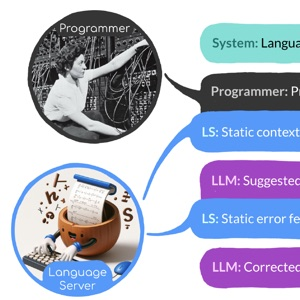
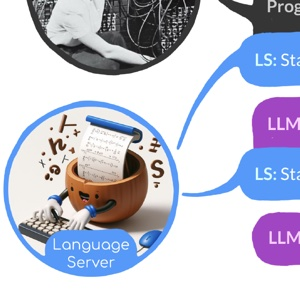
Project images 20% larger; varied Livelits sliders; ChatLSP framed on the language server
Claude-Session: https://claude.ai/code/session_01Cm3BafyfLXiqtFn3AT9bVL

diff --git a/assets/site.css b/assets/site.css
@@ -249,8 +249,8 @@ article img { max-width: 100%; height: auto; }
 .project-image { float: right; margin: 0 0 8px 14px; }
 .project-image img {
   display: block;
-  width: 96px;
-  height: 96px;
+  width: 115px;
+  height: 115px;
   border-radius: 50%;
   border: 1px solid #576f6f;
   padding: 1px;
